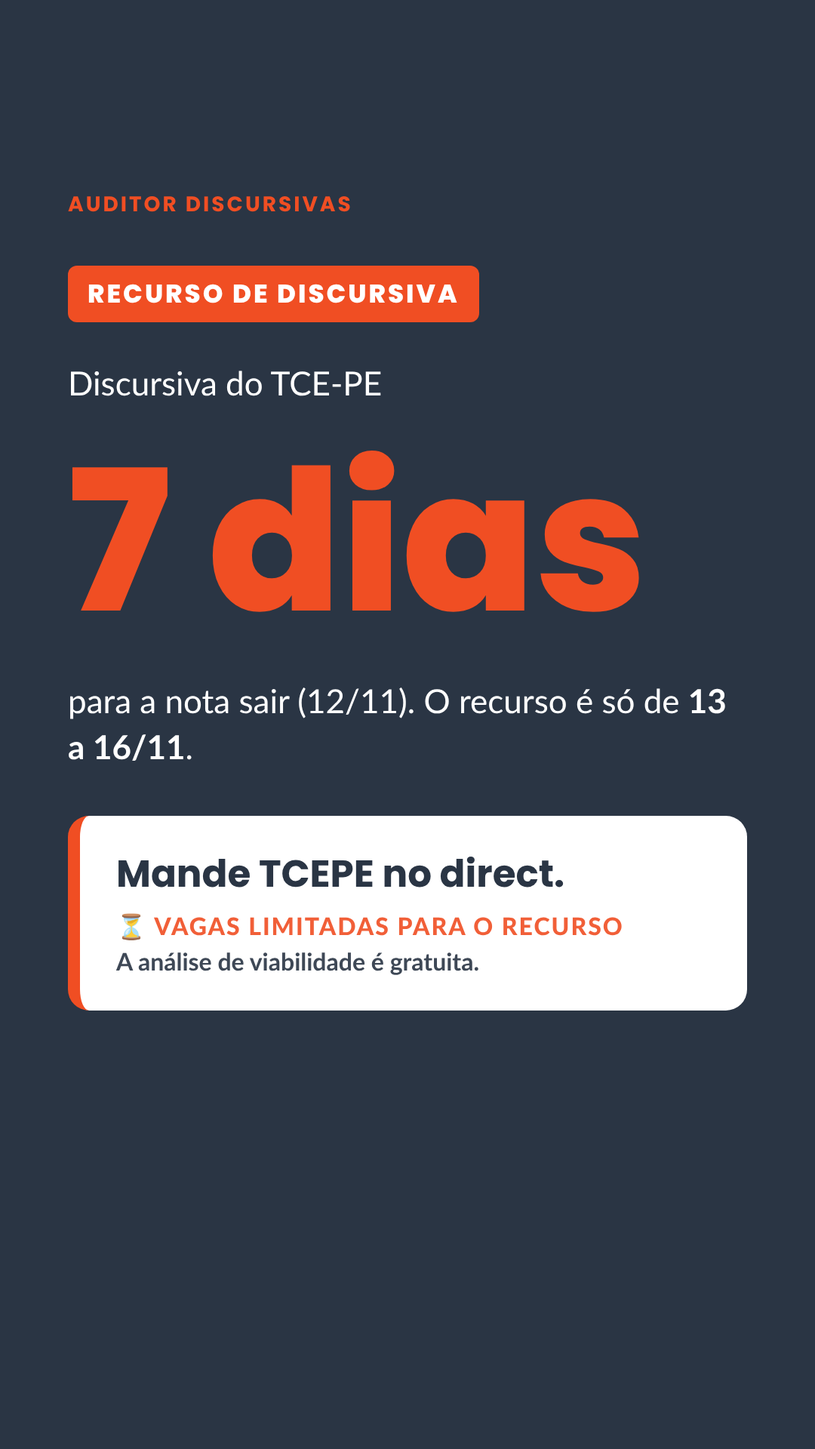
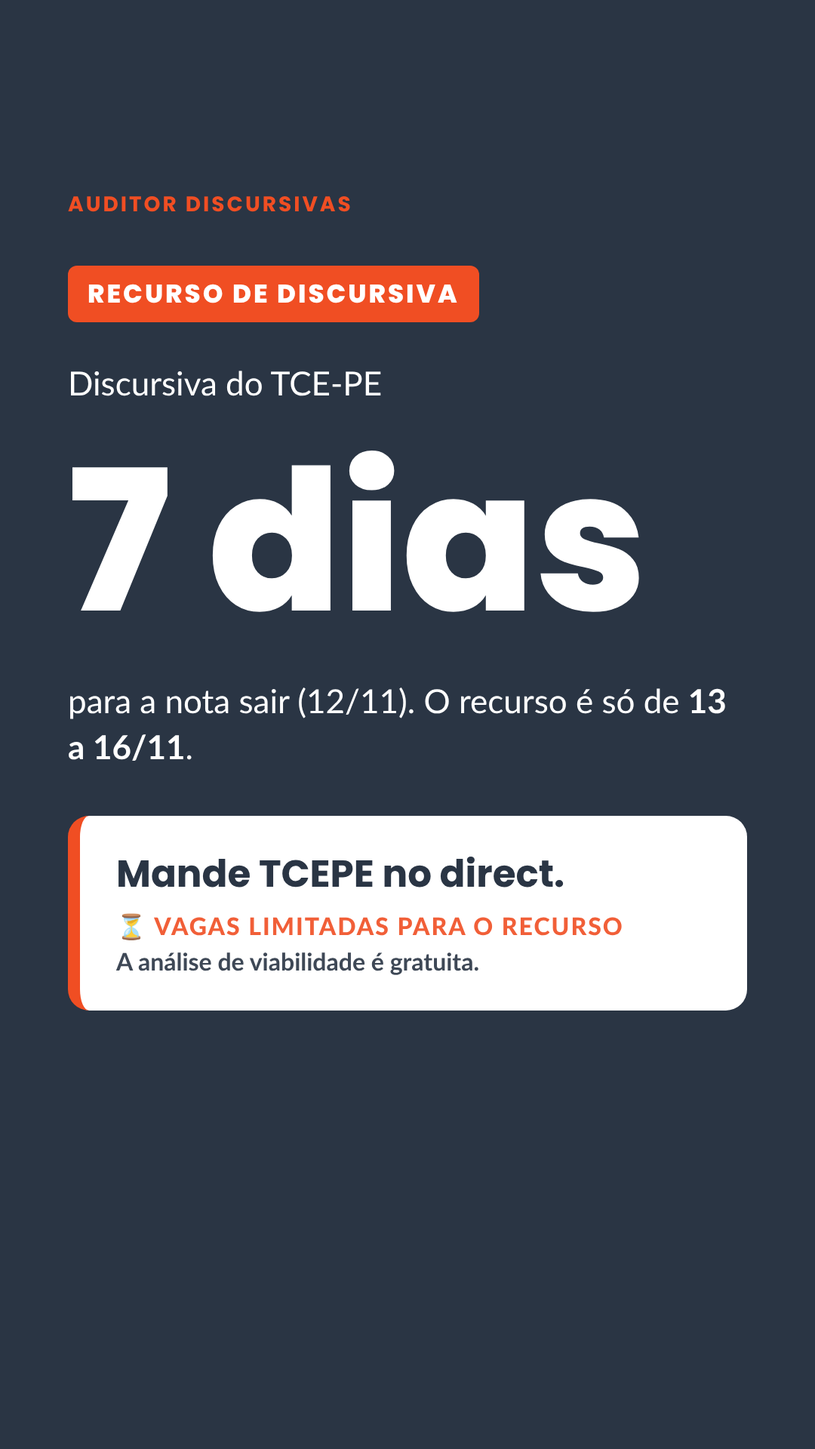
TCE-PE: stories em fundo azul + preço R$ 400 (1 questão) (Samuel, 02/11)
Claude-Session: https://claude.ai/code/session_01DzGKEj4kViGeh2DgZ7c7i9

Changed region(s): [[0.2444, 0.3125, 0.7944, 0.4375], [0.0917, 0.3125, 0.2139, 0.4375]]

diff --git a/fontes/campanha-recurso-tcepe-d7-d1-d/carrossel_d.html b/fontes/campanha-recurso-tcepe-d7-d1-d/carrossel_d.html
@@ -61,4 +61,6 @@ p.mid{font-size:38px;line-height:1.45}
 .st .box .vg{color:var(--lar)}
 .st.claro .big-n{color:var(--navy)}
 .st.claro .num{background:var(--navy)}
-</style></head><body><section class="s navy"><div class="top"><span class="wm">AUDITOR DISCURSIVAS</span><span class="ct">01 / 04</span></div><div class="sp"></div><div class="selo">RECURSO DE DISCURSIVA</div><h1>Não concorda com a nota da sua discursiva do <em>TCE-PE?</em></h1><div class="chips"><span class="chip">TCE-PE</span><span class="chip">FGV</span><span class="chip">Recurso 13 a 16/11</span></div><p class="big"><b>Você ainda tem chance.</b> O recurso vai de 13 a 16/11.</p><div class="sp"></div><div class="rod"><span>@auditor_discursivas</span><span class="sv">Arraste →</span></div></section><section class="s claro" style="justify-content:center"><div class="top"><span class="wm">AUDITOR DISCURSIVAS</span><span class="ct">02 / 04</span></div><h2>Como funciona <em>comigo</em></h2><ul class="lista"><li><span class="num">1</span><span>Você me manda <b>TCEPE</b>, o cargo e a sua nota de cada item</span></li><li><span class="num">2</span><span>Faço a <b>análise de viabilidade gratuita</b>: sua resposta × espelho</span></li><li><span class="num">3</span><span>Se houver fundamento, eu <b>redijo o recurso</b> item por item, dentro do prazo</span></li></ul><div class="card">Questão: <b>R$ 350</b> · Peça técnica: <b>R$ 700</b> · Combo questão + peça: <b>R$ 950</b>. A análise de viabilidade é gratuita.</div><div class="rod"><span>@auditor_discursivas</span><span class="sv">Salvar →</span></div></section><section class="s claro" style="justify-content:center"><div class="top"><span class="wm">AUDITOR DISCURSIVAS</span><span class="ct">03 / 04</span></div><h2>4 dias, com <em>fim de semana</em> no meio</h2><div class="tl"><div class="ev"><span class="k">sex 13/11</span><span>Abre o recurso</span></div><div class="ev"><span class="k">sáb 14 e dom 15</span><span>Prazo correndo</span></div><div class="ev d"><span class="k">seg 16/11</span><span><b>Último dia</b></span></div></div><div class="card"><b>Quanto antes você mandar, mais tempo para fundamentar.</b> Depois de 16/11, essa correção não se discute mais.</div><div class="rod"><span>@auditor_discursivas</span><span class="sv">Salvar →</span></div></section><section class="s claro"><div class="top"><span class="wm">AUDITOR DISCURSIVAS</span><span class="ct">04 / 04</span></div><div class="sp"></div><h2>Ponto recuperado é <em>ponto na classificação.</em></h2><p class="big" style="margin:44px 0 52px">Mande agora e eu te digo se o seu recurso tem fundamento.</p><div class="box">Comente TCEPE<small><span class="vg" style="display:block;font-weight:900;letter-spacing:2px;margin:4px 0 6px">⏳ VAGAS LIMITADAS PARA O RECURSO</span>ou mande <b>TCEPE</b> no direct. A análise de viabilidade é gratuita.</small></div><div class="sp"></div><div class="autor" style="margin-top:0;align-items:center"><div class="foto" style="flex:0 0 190px;width:190px;height:190px"></div><div><b>Samuel Wolf</b><span style="display:block;color:var(--lar);opacity:1;font-weight:700;margin:4px 0 14px">Recursos de provas discursivas</span><ul class="cred"><li>✔ Engenheiro pelo ITA</li><li>✔ Auditor de Controle Externo do TCE-RJ</li><li>✔ Nomeado Auditor Fiscal da SEFAZ-RS</li><li>✔ Nomeado Auditor Fiscal da SEFIN Manaus</li></ul></div></div><div class="rod"><span>@auditor_discursivas</span><span></span></div></section><section class="st navy"><div class="wm">AUDITOR DISCURSIVAS</div><div class="selo">RECURSO DE DISCURSIVA</div><h1 style="font-size:104px">Dia de resultado: discursiva do <em>TCE-PE.</em></h1><p class="big" style="margin:50px 0 60px">Não concordou com a nota? O recurso é de <b>13 a 16/11</b>.</p><div class="box">Mande TCEPE no direct.<small><span class="vg" style="display:block;font-weight:900;letter-spacing:2px;margin:4px 0 6px">⏳ VAGAS LIMITADAS PARA O RECURSO</span>A análise de viabilidade é gratuita.</small></div><div class="autor"><div class="foto"></div><div><b>Samuel Wolf</b><span>Recursos de provas discursivas</span></div></div></section><section class="st claro"><div class="wm">AUDITOR DISCURSIVAS</div><div class="selo">RECURSO TCE-PE</div><p class="big">Recurso aberto até segunda</p><div class="big-n">16/11</div><p class="big" style="margin:30px 0 60px">Quanto antes, mais tempo para fundamentar.</p><div class="box">Mande TCEPE no direct.<small><span class="vg" style="display:block;font-weight:900;letter-spacing:2px;margin:4px 0 6px">⏳ VAGAS LIMITADAS PARA O RECURSO</span>A análise de viabilidade é gratuita.</small></div></section><section class="st claro"><div class="wm">AUDITOR DISCURSIVAS</div><div class="selo">RECURSO TCE-PE</div><p class="big">Faltam</p><div class="big-n">3 dias</div><p class="big" style="margin:30px 0 60px">O prazo termina segunda, 16/11.</p><div class="box">Mande TCEPE no direct.<small><span class="vg" style="display:block;font-weight:900;letter-spacing:2px;margin:4px 0 6px">⏳ VAGAS LIMITADAS PARA O RECURSO</span>A análise de viabilidade é gratuita.</small></div></section><section class="st claro"><div class="wm">AUDITOR DISCURSIVAS</div><div class="selo">RECURSO TCE-PE</div><p class="big">Faltam</p><div class="big-n">2 dias</div><p class="big" style="margin:30px 0 60px">Recurso bom aponta a linha da sua folha que atende ao critério do espelho.</p><div class="box">Mande TCEPE no direct.<small><span class="vg" style="display:block;font-weight:900;letter-spacing:2px;margin:4px 0 6px">⏳ VAGAS LIMITADAS PARA O RECURSO</span>A análise de viabilidade é gratuita.</small></div></section><section class="st claro"><div class="wm">AUDITOR DISCURSIVAS</div><div class="selo">RECURSO TCE-PE</div><div class="big-n" style="font-size:170px">Último dia</div><p class="big" style="margin:30px 0 60px">O recurso da discursiva do TCE-PE termina <b>hoje</b>.</p><div class="box">Mande TCEPE no direct.<small><span class="vg" style="display:block;font-weight:900;letter-spacing:2px;margin:4px 0 6px">⏳ VAGAS LIMITADAS PARA O RECURSO</span>A análise de viabilidade é gratuita.</small></div><div class="autor"><div class="foto"></div><div><b>Samuel Wolf</b><span>Recursos de provas discursivas</span></div></div></section></body></html>
+/* stories em fundo azul (Samuel, 02/11/2026) */
+.st.navy .big-n{color:#fff}
+</style></head><body><section class="s navy"><div class="top"><span class="wm">AUDITOR DISCURSIVAS</span><span class="ct">01 / 04</span></div><div class="sp"></div><div class="selo">RECURSO DE DISCURSIVA</div><h1>Não concorda com a nota da sua discursiva do <em>TCE-PE?</em></h1><div class="chips"><span class="chip">TCE-PE</span><span class="chip">FGV</span><span class="chip">Recurso 13 a 16/11</span></div><p class="big"><b>Você ainda tem chance.</b> O recurso vai de 13 a 16/11.</p><div class="sp"></div><div class="rod"><span>@auditor_discursivas</span><span class="sv">Arraste →</span></div></section><section class="s claro" style="justify-content:center"><div class="top"><span class="wm">AUDITOR DISCURSIVAS</span><span class="ct">02 / 04</span></div><h2>Como funciona <em>comigo</em></h2><ul class="lista"><li><span class="num">1</span><span>Você me manda <b>TCEPE</b>, o cargo e a sua nota de cada item</span></li><li><span class="num">2</span><span>Faço a <b>análise de viabilidade gratuita</b>: sua resposta × espelho</span></li><li><span class="num">3</span><span>Se houver fundamento, eu <b>redijo o recurso</b> item por item, dentro do prazo</span></li></ul><div class="card">Recurso da questão (estudo de caso): <b>R$ 400</b>. A análise de viabilidade é gratuita.</div><div class="rod"><span>@auditor_discursivas</span><span class="sv">Salvar →</span></div></section><section class="s claro" style="justify-content:center"><div class="top"><span class="wm">AUDITOR DISCURSIVAS</span><span class="ct">03 / 04</span></div><h2>4 dias, com <em>fim de semana</em> no meio</h2><div class="tl"><div class="ev"><span class="k">sex 13/11</span><span>Abre o recurso</span></div><div class="ev"><span class="k">sáb 14 e dom 15</span><span>Prazo correndo</span></div><div class="ev d"><span class="k">seg 16/11</span><span><b>Último dia</b></span></div></div><div class="card"><b>Quanto antes você mandar, mais tempo para fundamentar.</b> Depois de 16/11, essa correção não se discute mais.</div><div class="rod"><span>@auditor_discursivas</span><span class="sv">Salvar →</span></div></section><section class="s claro"><div class="top"><span class="wm">AUDITOR DISCURSIVAS</span><span class="ct">04 / 04</span></div><div class="sp"></div><h2>Ponto recuperado é <em>ponto na classificação.</em></h2><p class="big" style="margin:44px 0 52px">Mande agora e eu te digo se o seu recurso tem fundamento.</p><div class="box">Comente TCEPE<small><span class="vg" style="display:block;font-weight:900;letter-spacing:2px;margin:4px 0 6px">⏳ VAGAS LIMITADAS PARA O RECURSO</span>ou mande <b>TCEPE</b> no direct. A análise de viabilidade é gratuita.</small></div><div class="sp"></div><div class="autor" style="margin-top:0;align-items:center"><div class="foto" style="flex:0 0 190px;width:190px;height:190px"></div><div><b>Samuel Wolf</b><span style="display:block;color:var(--lar);opacity:1;font-weight:700;margin:4px 0 14px">Recursos de provas discursivas</span><ul class="cred"><li>✔ Engenheiro pelo ITA</li><li>✔ Auditor de Controle Externo do TCE-RJ</li><li>✔ Nomeado Auditor Fiscal da SEFAZ-RS</li><li>✔ Nomeado Auditor Fiscal da SEFIN Manaus</li></ul></div></div><div class="rod"><span>@auditor_discursivas</span><span></span></div></section><section class="st navy"><div class="wm">AUDITOR DISCURSIVAS</div><div class="selo">RECURSO DE DISCURSIVA</div><h1 style="font-size:104px">Dia de resultado: discursiva do <em>TCE-PE.</em></h1><p class="big" style="margin:50px 0 60px">Não concordou com a nota? O recurso é de <b>13 a 16/11</b>.</p><div class="box">Mande TCEPE no direct.<small><span class="vg" style="display:block;font-weight:900;letter-spacing:2px;margin:4px 0 6px">⏳ VAGAS LIMITADAS PARA O RECURSO</span>A análise de viabilidade é gratuita.</small></div><div class="autor"><div class="foto"></div><div><b>Samuel Wolf</b><span>Recursos de provas discursivas</span></div></div></section><section class="st navy"><div class="wm">AUDITOR DISCURSIVAS</div><div class="selo">RECURSO TCE-PE</div><p class="big">Recurso aberto até segunda</p><div class="big-n">16/11</div><p class="big" style="margin:30px 0 60px">Quanto antes, mais tempo para fundamentar.</p><div class="box">Mande TCEPE no direct.<small><span class="vg" style="display:block;font-weight:900;letter-spacing:2px;margin:4px 0 6px">⏳ VAGAS LIMITADAS PARA O RECURSO</span>A análise de viabilidade é gratuita.</small></div></section><section class="st navy"><div class="wm">AUDITOR DISCURSIVAS</div><div class="selo">RECURSO TCE-PE</div><p class="big">Faltam</p><div class="big-n">3 dias</div><p class="big" style="margin:30px 0 60px">O prazo termina segunda, 16/11.</p><div class="box">Mande TCEPE no direct.<small><span class="vg" style="display:block;font-weight:900;letter-spacing:2px;margin:4px 0 6px">⏳ VAGAS LIMITADAS PARA O RECURSO</span>A análise de viabilidade é gratuita.</small></div></section><section class="st navy"><div class="wm">AUDITOR DISCURSIVAS</div><div class="selo">RECURSO TCE-PE</div><p class="big">Faltam</p><div class="big-n">2 dias</div><p class="big" style="margin:30px 0 60px">Recurso bom aponta a linha da sua folha que atende ao critério do espelho.</p><div class="box">Mande TCEPE no direct.<small><span class="vg" style="display:block;font-weight:900;letter-spacing:2px;margin:4px 0 6px">⏳ VAGAS LIMITADAS PARA O RECURSO</span>A análise de viabilidade é gratuita.</small></div></section><section class="st navy"><div class="wm">AUDITOR DISCURSIVAS</div><div class="selo">RECURSO TCE-PE</div><div class="big-n" style="font-size:170px">Último dia</div><p class="big" style="margin:30px 0 60px">O recurso da discursiva do TCE-PE termina <b>hoje</b>.</p><div class="box">Mande TCEPE no direct.<small><span class="vg" style="display:block;font-weight:900;letter-spacing:2px;margin:4px 0 6px">⏳ VAGAS LIMITADAS PARA O RECURSO</span>A análise de viabilidade é gratuita.</small></div><div class="autor"><div class="foto"></div><div><b>Samuel Wolf</b><span>Recursos de provas discursivas</span></div></div></section></body></html>

diff --git a/fontes/campanha-recurso-tcepe-d7-d1-d/carrossel_d7.html b/fontes/campanha-recurso-tcepe-d7-d1-d/carrossel_d7.html
@@ -61,4 +61,6 @@ p.mid{font-size:38px;line-height:1.45}
 .st .box .vg{color:var(--lar)}
 .st.claro .big-n{color:var(--navy)}
 .st.claro .num{background:var(--navy)}
-</style></head><body><section class="s navy"><div class="top"><span class="wm">AUDITOR DISCURSIVAS</span><span class="ct">01 / 04</span></div><div class="sp"></div><div class="selo">RECURSO DE DISCURSIVA</div><h1>TCE-PE: a nota da discursiva sai em <em>7 dias.</em></h1><div class="chips"><span class="chip">TCE-PE</span><span class="chip">FGV</span><span class="chip">Cargos reaplicados</span></div><p class="big">E o recurso só vale de <b>13 a 16/11</b>. Quem se prepara agora chega pronto.</p><div class="sp"></div><div class="rod"><span>@auditor_discursivas</span><span class="sv">Arraste →</span></div></section><section class="s claro" style="justify-content:center"><div class="top"><span class="wm">AUDITOR DISCURSIVAS</span><span class="ct">02 / 04</span></div><h2>Na FGV, a janela de recurso é <em>uma só.</em></h2><div class="tl"><div class="ev"><span class="k">12/11</span><span><b>Resultado preliminar</b> da discursiva</span></div><div class="ev d"><span class="k">13 a 16/11</span><span><b>Recurso</b> contra a nota da discursiva</span></div><div class="ev"><span class="k">08/12</span><span><b>Resultado definitivo</b> e resultado final</span></div></div><div class="card">Não há padrão preliminar com recurso próprio, como no Cebraspe. <b>Você vê a nota e recorre no mesmo prazo curto.</b></div><div class="rod"><span>@auditor_discursivas</span><span class="sv">Salvar →</span></div></section><section class="s claro" style="justify-content:center"><div class="top"><span class="wm">AUDITOR DISCURSIVAS</span><span class="ct">03 / 04</span></div><h2>Use esta semana para <em>adiantar o recurso</em></h2><ul class="lista"><li><span class="num">1</span><span>Leia no edital as <b>regras do recurso</b></span></li><li><span class="num">2</span><span>Liste as <b>normas, artigos e acórdãos</b> que você citou</span></li><li><span class="num">3</span><span>Reserve <b>13 a 16/11</b> na agenda</span></li></ul><div class="card"><b>Ponto recuperado no recurso vale tanto quanto questão acertada na objetiva.</b></div><div class="rod"><span>@auditor_discursivas</span><span class="sv">Salvar →</span></div></section><section class="s claro"><div class="top"><span class="wm">AUDITOR DISCURSIVAS</span><span class="ct">04 / 04</span></div><div class="sp"></div><h2>Quer chegar ao dia 13 <em>com o recurso encaminhado?</em></h2><p class="big" style="margin:44px 0 52px">Eu leio a sua resposta contra o espelho e digo se o recurso tem fundamento.</p><div class="box">Comente TCEPE<small><span class="vg" style="display:block;font-weight:900;letter-spacing:2px;margin:4px 0 6px">⏳ VAGAS LIMITADAS PARA O RECURSO</span>ou mande <b>TCEPE</b> no direct. A análise de viabilidade é gratuita.</small></div><div class="sp"></div><div class="autor" style="margin-top:0;align-items:center"><div class="foto" style="flex:0 0 190px;width:190px;height:190px"></div><div><b>Samuel Wolf</b><span style="display:block;color:var(--lar);opacity:1;font-weight:700;margin:4px 0 14px">Recursos de provas discursivas</span><ul class="cred"><li>✔ Engenheiro pelo ITA</li><li>✔ Auditor de Controle Externo do TCE-RJ</li><li>✔ Nomeado Auditor Fiscal da SEFAZ-RS</li><li>✔ Nomeado Auditor Fiscal da SEFIN Manaus</li></ul></div></div><div class="rod"><span>@auditor_discursivas</span><span></span></div></section><section class="st navy"><div class="wm">AUDITOR DISCURSIVAS</div><div class="selo">RECURSO DE DISCURSIVA</div><p class="big">Discursiva do TCE-PE</p><div class="big-n">7 dias</div><p class="big" style="margin:30px 0 60px">para a nota sair (12/11). O recurso é só de <b>13 a 16/11</b>.</p><div class="box">Mande TCEPE no direct.<small><span class="vg" style="display:block;font-weight:900;letter-spacing:2px;margin:4px 0 6px">⏳ VAGAS LIMITADAS PARA O RECURSO</span>A análise de viabilidade é gratuita.</small></div></section><section class="st claro"><div class="wm">AUDITOR DISCURSIVAS</div><h1 style="font-size:96px">Como você acha que foi na <em>discursiva do TCE-PE?</em></h1><div class="opt"><div class="op a">💪 Fui bem</div><div class="op b">😬 Posso precisar de recurso</div></div><p class="mid" style="margin-top:60px">Responda no direct com a sua opção. Se for a segunda, mande <b>TCEPE</b>.</p></section><section class="st claro"><div class="wm">AUDITOR DISCURSIVAS</div><h1 style="font-size:92px">Adiante o recurso <em>nesta semana</em></h1><ul class="lista"><li><span class="num">1</span><span>Leia as regras do recurso</span></li><li><span class="num">2</span><span>Liste as normas citadas</span></li><li><span class="num">3</span><span>Reserve 13 a 16/11</span></li></ul><div class="sp"></div><div class="box">Mande TCEPE no direct.<small><span class="vg" style="display:block;font-weight:900;letter-spacing:2px;margin:4px 0 6px">⏳ VAGAS LIMITADAS PARA O RECURSO</span>A análise de viabilidade é gratuita.</small></div><div class="autor"><div class="foto"></div><div><b>Samuel Wolf</b><span>Recursos de provas discursivas</span></div></div></section></body></html>
+/* stories em fundo azul (Samuel, 02/11/2026) */
+.st.navy .big-n{color:#fff}
+</style></head><body><section class="s navy"><div class="top"><span class="wm">AUDITOR DISCURSIVAS</span><span class="ct">01 / 04</span></div><div class="sp"></div><div class="selo">RECURSO DE DISCURSIVA</div><h1>TCE-PE: a nota da discursiva sai em <em>7 dias.</em></h1><div class="chips"><span class="chip">TCE-PE</span><span class="chip">FGV</span><span class="chip">Cargos reaplicados</span></div><p class="big">E o recurso só vale de <b>13 a 16/11</b>. Quem se prepara agora chega pronto.</p><div class="sp"></div><div class="rod"><span>@auditor_discursivas</span><span class="sv">Arraste →</span></div></section><section class="s claro" style="justify-content:center"><div class="top"><span class="wm">AUDITOR DISCURSIVAS</span><span class="ct">02 / 04</span></div><h2>Na FGV, a janela de recurso é <em>uma só.</em></h2><div class="tl"><div class="ev"><span class="k">12/11</span><span><b>Resultado preliminar</b> da discursiva</span></div><div class="ev d"><span class="k">13 a 16/11</span><span><b>Recurso</b> contra a nota da discursiva</span></div><div class="ev"><span class="k">08/12</span><span><b>Resultado definitivo</b> e resultado final</span></div></div><div class="card">Não há padrão preliminar com recurso próprio, como no Cebraspe. <b>Você vê a nota e recorre no mesmo prazo curto.</b></div><div class="rod"><span>@auditor_discursivas</span><span class="sv">Salvar →</span></div></section><section class="s claro" style="justify-content:center"><div class="top"><span class="wm">AUDITOR DISCURSIVAS</span><span class="ct">03 / 04</span></div><h2>Use esta semana para <em>adiantar o recurso</em></h2><ul class="lista"><li><span class="num">1</span><span>Leia no edital as <b>regras do recurso</b></span></li><li><span class="num">2</span><span>Liste as <b>normas, artigos e acórdãos</b> que você citou</span></li><li><span class="num">3</span><span>Reserve <b>13 a 16/11</b> na agenda</span></li></ul><div class="card"><b>Ponto recuperado no recurso vale tanto quanto questão acertada na objetiva.</b></div><div class="rod"><span>@auditor_discursivas</span><span class="sv">Salvar →</span></div></section><section class="s claro"><div class="top"><span class="wm">AUDITOR DISCURSIVAS</span><span class="ct">04 / 04</span></div><div class="sp"></div><h2>Quer chegar ao dia 13 <em>com o recurso encaminhado?</em></h2><p class="big" style="margin:44px 0 52px">Eu leio a sua resposta contra o espelho e digo se o recurso tem fundamento.</p><div class="box">Comente TCEPE<small><span class="vg" style="display:block;font-weight:900;letter-spacing:2px;margin:4px 0 6px">⏳ VAGAS LIMITADAS PARA O RECURSO</span>ou mande <b>TCEPE</b> no direct. A análise de viabilidade é gratuita.</small></div><div class="sp"></div><div class="autor" style="margin-top:0;align-items:center"><div class="foto" style="flex:0 0 190px;width:190px;height:190px"></div><div><b>Samuel Wolf</b><span style="display:block;color:var(--lar);opacity:1;font-weight:700;margin:4px 0 14px">Recursos de provas discursivas</span><ul class="cred"><li>✔ Engenheiro pelo ITA</li><li>✔ Auditor de Controle Externo do TCE-RJ</li><li>✔ Nomeado Auditor Fiscal da SEFAZ-RS</li><li>✔ Nomeado Auditor Fiscal da SEFIN Manaus</li></ul></div></div><div class="rod"><span>@auditor_discursivas</span><span></span></div></section><section class="st navy"><div class="wm">AUDITOR DISCURSIVAS</div><div class="selo">RECURSO DE DISCURSIVA</div><p class="big">Discursiva do TCE-PE</p><div class="big-n">7 dias</div><p class="big" style="margin:30px 0 60px">para a nota sair (12/11). O recurso é só de <b>13 a 16/11</b>.</p><div class="box">Mande TCEPE no direct.<small><span class="vg" style="display:block;font-weight:900;letter-spacing:2px;margin:4px 0 6px">⏳ VAGAS LIMITADAS PARA O RECURSO</span>A análise de viabilidade é gratuita.</small></div></section><section class="st navy"><div class="wm">AUDITOR DISCURSIVAS</div><h1 style="font-size:96px">Como você acha que foi na <em>discursiva do TCE-PE?</em></h1><div class="opt"><div class="op a">💪 Fui bem</div><div class="op b">😬 Posso precisar de recurso</div></div><p class="mid" style="margin-top:60px">Responda no direct com a sua opção. Se for a segunda, mande <b>TCEPE</b>.</p></section><section class="st navy"><div class="wm">AUDITOR DISCURSIVAS</div><h1 style="font-size:92px">Adiante o recurso <em>nesta semana</em></h1><ul class="lista"><li><span class="num">1</span><span>Leia as regras do recurso</span></li><li><span class="num">2</span><span>Liste as normas citadas</span></li><li><span class="num">3</span><span>Reserve 13 a 16/11</span></li></ul><div class="sp"></div><div class="box">Mande TCEPE no direct.<small><span class="vg" style="display:block;font-weight:900;letter-spacing:2px;margin:4px 0 6px">⏳ VAGAS LIMITADAS PARA O RECURSO</span>A análise de viabilidade é gratuita.</small></div><div class="autor"><div class="foto"></div><div><b>Samuel Wolf</b><span>Recursos de provas discursivas</span></div></div></section></body></html>

diff --git a/fontes/campanha-recurso-tcepe-d7-d1-d/carrossel_d1.html b/fontes/campanha-recurso-tcepe-d7-d1-d/carrossel_d1.html
@@ -61,4 +61,6 @@ p.mid{font-size:38px;line-height:1.45}
 .st .box .vg{color:var(--lar)}
 .st.claro .big-n{color:var(--navy)}
 .st.claro .num{background:var(--navy)}
-</style></head><body><section class="s navy"><div class="top"><span class="wm">AUDITOR DISCURSIVAS</span><span class="ct">01 / 04</span></div><div class="sp"></div><div class="selo">RECURSO DE DISCURSIVA</div><h1>TCE-PE: a nota da discursiva sai <em>amanhã.</em></h1><div class="chips"><span class="chip">TCE-PE</span><span class="chip">FGV</span><span class="chip">Recurso 13 a 16/11</span></div><p class="big">São só 4 dias de prazo. <b>Deixe tudo pronto hoje.</b></p><div class="sp"></div><div class="rod"><span>@auditor_discursivas</span><span class="sv">Arraste →</span></div></section><section class="s claro" style="justify-content:center"><div class="top"><span class="wm">AUDITOR DISCURSIVAS</span><span class="ct">02 / 04</span></div><h2>Checklist para <em>hoje</em></h2><ul class="lista"><li><span class="num">1</span><span>As <b>regras do recurso</b> no edital, já lidas</span></li><li><span class="num">2</span><span>As <b>normas e fundamentos</b> que você usou</span></li><li><span class="num">3</span><span><b>13 a 16/11</b> reservados na agenda</span></li></ul><div class="card">Quando a nota sair, compare <b>item por item</b> com o espelho da banca.</div><div class="rod"><span>@auditor_discursivas</span><span class="sv">Salvar →</span></div></section><section class="s claro" style="justify-content:center"><div class="top"><span class="wm">AUDITOR DISCURSIVAS</span><span class="ct">03 / 04</span></div><h2>Onde o recurso <em>tem argumento</em></h2><ul class="lista"><li><span class="num">1</span><span>Você <b>abordou o item</b> e ele veio zerado ou parcial</span></li><li><span class="num">2</span><span>Você usou <b>fundamento equivalente</b> ao do espelho</span></li><li><span class="num">3</span><span>Houve desconto de forma <b>sem erro identificável</b></span></li></ul><div class="card">Recurso bom não reclama da nota: <b>aponta a linha da sua folha que atende ao critério.</b></div><div class="rod"><span>@auditor_discursivas</span><span class="sv">Salvar →</span></div></section><section class="s claro"><div class="top"><span class="wm">AUDITOR DISCURSIVAS</span><span class="ct">04 / 04</span></div><div class="sp"></div><h2>Saiu e não concordou? <em>Fala comigo.</em></h2><p class="big" style="margin:44px 0 52px">A análise começa assim que você me mandar a sua nota.</p><div class="box">Comente TCEPE<small><span class="vg" style="display:block;font-weight:900;letter-spacing:2px;margin:4px 0 6px">⏳ VAGAS LIMITADAS PARA O RECURSO</span>ou mande <b>TCEPE</b> no direct. A análise de viabilidade é gratuita.</small></div><div class="sp"></div><div class="autor" style="margin-top:0;align-items:center"><div class="foto" style="flex:0 0 190px;width:190px;height:190px"></div><div><b>Samuel Wolf</b><span style="display:block;color:var(--lar);opacity:1;font-weight:700;margin:4px 0 14px">Recursos de provas discursivas</span><ul class="cred"><li>✔ Engenheiro pelo ITA</li><li>✔ Auditor de Controle Externo do TCE-RJ</li><li>✔ Nomeado Auditor Fiscal da SEFAZ-RS</li><li>✔ Nomeado Auditor Fiscal da SEFIN Manaus</li></ul></div></div><div class="rod"><span>@auditor_discursivas</span><span></span></div></section><section class="st navy"><div class="wm">AUDITOR DISCURSIVAS</div><div class="selo">RECURSO DE DISCURSIVA</div><h1 style="font-size:110px">Amanhã sai a nota da discursiva do <em>TCE-PE.</em></h1><p class="big" style="margin:50px 0 60px">Recurso: <b>13 a 16/11</b>.</p><div class="box">Mande TCEPE no direct.<small><span class="vg" style="display:block;font-weight:900;letter-spacing:2px;margin:4px 0 6px">⏳ VAGAS LIMITADAS PARA O RECURSO</span>A análise de viabilidade é gratuita.</small></div></section><section class="st claro"><div class="wm">AUDITOR DISCURSIVAS</div><h1 style="font-size:96px">Checklist para <em>hoje</em></h1><ul class="lista"><li><span class="num">1</span><span>Regras do recurso lidas</span></li><li><span class="num">2</span><span>Normas e fundamentos listados</span></li><li><span class="num">3</span><span>13 a 16/11 na agenda</span></li></ul></section><section class="st claro"><div class="wm">AUDITOR DISCURSIVAS</div><h1 style="font-size:92px">Não concordou com a nota? <em>Fala comigo.</em></h1><p class="big" style="margin:50px 0 60px">Eu leio a sua resposta contra o espelho e digo se o recurso tem fundamento.</p><div class="box">Mande TCEPE no direct.<small><span class="vg" style="display:block;font-weight:900;letter-spacing:2px;margin:4px 0 6px">⏳ VAGAS LIMITADAS PARA O RECURSO</span>A análise de viabilidade é gratuita.</small></div><div class="autor"><div class="foto"></div><div><b>Samuel Wolf</b><span>Recursos de provas discursivas</span></div></div></section></body></html>
+/* stories em fundo azul (Samuel, 02/11/2026) */
+.st.navy .big-n{color:#fff}
+</style></head><body><section class="s navy"><div class="top"><span class="wm">AUDITOR DISCURSIVAS</span><span class="ct">01 / 04</span></div><div class="sp"></div><div class="selo">RECURSO DE DISCURSIVA</div><h1>TCE-PE: a nota da discursiva sai <em>amanhã.</em></h1><div class="chips"><span class="chip">TCE-PE</span><span class="chip">FGV</span><span class="chip">Recurso 13 a 16/11</span></div><p class="big">São só 4 dias de prazo. <b>Deixe tudo pronto hoje.</b></p><div class="sp"></div><div class="rod"><span>@auditor_discursivas</span><span class="sv">Arraste →</span></div></section><section class="s claro" style="justify-content:center"><div class="top"><span class="wm">AUDITOR DISCURSIVAS</span><span class="ct">02 / 04</span></div><h2>Checklist para <em>hoje</em></h2><ul class="lista"><li><span class="num">1</span><span>As <b>regras do recurso</b> no edital, já lidas</span></li><li><span class="num">2</span><span>As <b>normas e fundamentos</b> que você usou</span></li><li><span class="num">3</span><span><b>13 a 16/11</b> reservados na agenda</span></li></ul><div class="card">Quando a nota sair, compare <b>item por item</b> com o espelho da banca.</div><div class="rod"><span>@auditor_discursivas</span><span class="sv">Salvar →</span></div></section><section class="s claro" style="justify-content:center"><div class="top"><span class="wm">AUDITOR DISCURSIVAS</span><span class="ct">03 / 04</span></div><h2>Onde o recurso <em>tem argumento</em></h2><ul class="lista"><li><span class="num">1</span><span>Você <b>abordou o item</b> e ele veio zerado ou parcial</span></li><li><span class="num">2</span><span>Você usou <b>fundamento equivalente</b> ao do espelho</span></li><li><span class="num">3</span><span>Houve desconto de forma <b>sem erro identificável</b></span></li></ul><div class="card">Recurso bom não reclama da nota: <b>aponta a linha da sua folha que atende ao critério.</b></div><div class="rod"><span>@auditor_discursivas</span><span class="sv">Salvar →</span></div></section><section class="s claro"><div class="top"><span class="wm">AUDITOR DISCURSIVAS</span><span class="ct">04 / 04</span></div><div class="sp"></div><h2>Saiu e não concordou? <em>Fala comigo.</em></h2><p class="big" style="margin:44px 0 52px">A análise começa assim que você me mandar a sua nota.</p><div class="box">Comente TCEPE<small><span class="vg" style="display:block;font-weight:900;letter-spacing:2px;margin:4px 0 6px">⏳ VAGAS LIMITADAS PARA O RECURSO</span>ou mande <b>TCEPE</b> no direct. A análise de viabilidade é gratuita.</small></div><div class="sp"></div><div class="autor" style="margin-top:0;align-items:center"><div class="foto" style="flex:0 0 190px;width:190px;height:190px"></div><div><b>Samuel Wolf</b><span style="display:block;color:var(--lar);opacity:1;font-weight:700;margin:4px 0 14px">Recursos de provas discursivas</span><ul class="cred"><li>✔ Engenheiro pelo ITA</li><li>✔ Auditor de Controle Externo do TCE-RJ</li><li>✔ Nomeado Auditor Fiscal da SEFAZ-RS</li><li>✔ Nomeado Auditor Fiscal da SEFIN Manaus</li></ul></div></div><div class="rod"><span>@auditor_discursivas</span><span></span></div></section><section class="st navy"><div class="wm">AUDITOR DISCURSIVAS</div><div class="selo">RECURSO DE DISCURSIVA</div><h1 style="font-size:110px">Amanhã sai a nota da discursiva do <em>TCE-PE.</em></h1><p class="big" style="margin:50px 0 60px">Recurso: <b>13 a 16/11</b>.</p><div class="box">Mande TCEPE no direct.<small><span class="vg" style="display:block;font-weight:900;letter-spacing:2px;margin:4px 0 6px">⏳ VAGAS LIMITADAS PARA O RECURSO</span>A análise de viabilidade é gratuita.</small></div></section><section class="st navy"><div class="wm">AUDITOR DISCURSIVAS</div><h1 style="font-size:96px">Checklist para <em>hoje</em></h1><ul class="lista"><li><span class="num">1</span><span>Regras do recurso lidas</span></li><li><span class="num">2</span><span>Normas e fundamentos listados</span></li><li><span class="num">3</span><span>13 a 16/11 na agenda</span></li></ul></section><section class="st navy"><div class="wm">AUDITOR DISCURSIVAS</div><h1 style="font-size:92px">Não concordou com a nota? <em>Fala comigo.</em></h1><p class="big" style="margin:50px 0 60px">Eu leio a sua resposta contra o espelho e digo se o recurso tem fundamento.</p><div class="box">Mande TCEPE no direct.<small><span class="vg" style="display:block;font-weight:900;letter-spacing:2px;margin:4px 0 6px">⏳ VAGAS LIMITADAS PARA O RECURSO</span>A análise de viabilidade é gratuita.</small></div><div class="autor"><div class="foto"></div><div><b>Samuel Wolf</b><span>Recursos de provas discursivas</span></div></div></section></body></html>

diff --git a/fontes/campanha-recurso-tcepe-d7-d1-d/base.css b/fontes/campanha-recurso-tcepe-d7-d1-d/base.css
@@ -61,3 +61,5 @@ p.mid{font-size:38px;line-height:1.45}
 .st .box .vg{color:var(--lar)}
 .st.claro .big-n{color:var(--navy)}
 .st.claro .num{background:var(--navy)}
+/* stories em fundo azul (Samuel, 02/11/2026) */
+.st.navy .big-n{color:#fff}

diff --git a/fontes/campanha-recurso-tcepe-d7-d1-d/gerar.py b/fontes/campanha-recurso-tcepe-d7-d1-d/gerar.py
@@ -39,7 +39,7 @@ def fecho(i, n, h2, p):
             f'<div class="rod"><span>@auditor_discursivas</span><span></span></div></section>')
 
 
-def story(corpo, tom='claro'):
+def story(corpo, tom='navy'):
     return f'<section class="st {tom}"><div class="wm">AUDITOR DISCURSIVAS</div>{corpo}</section>'
 
 
@@ -100,7 +100,7 @@ CAMP = {
           ['Você me manda <b>TCEPE</b>, o cargo e a sua nota de cada item',
            'Faço a <b>análise de viabilidade gratuita</b>: sua resposta × espelho',
            'Se houver fundamento, eu <b>redijo o recurso</b> item por item, dentro do prazo'],
-          'Questão: <b>R$ 350</b> · Peça técnica: <b>R$ 700</b> · Combo questão + peça: <b>R$ 950</b>. A análise de viabilidade é gratuita.'),
+          'Recurso da questão (estudo de caso): <b>R$ 400</b>. A análise de viabilidade é gratuita.'),
     linha(3, 4, '4 dias, com <em>fim de semana</em> no meio',
           [('sex 13/11', 'Abre o recurso', False), ('sáb 14 e dom 15', 'Prazo correndo', False), ('seg 16/11', '<b>Último dia</b>', True)],
           '<b>Quanto antes você mandar, mais tempo para fundamentar.</b> Depois de 16/11, essa correção não se discute mais.'),
